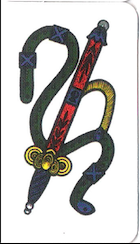
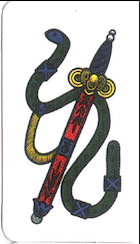
Update ace of spades and add another matching condition to check for values instead of just suits.

diff --git a/js/app.js b/js/app.js
@@ -196,8 +196,9 @@ function compareCardsAndSuits(selectedCard){
       // 09 - Cavallo - 3 points
       selectedCardData[selectedCardData.length -1] == "09" ? player.scoreTotal += 3 :
       // 08 - Re - 2 points
-      selectedCardData[selectedCardData.length -1] == "08" ? player.scoreTotal += 2 : null
+      selectedCardData[selectedCardData.length -1] == "08" ? player.scoreTotal += 2 : 
       // push these cards to the player's deck
+      0 && console.log("Points for you. None for the opponent.")
     } else {
       // else, no points given and the person who's turn it isn't, gets the point
       console.log("Award points to the opponent!")
@@ -206,7 +207,7 @@ function compareCardsAndSuits(selectedCard){
   }
   if(selectedCardData[0] === currentBriscolaCard[0] && selectedCardData[0] !== fieldCardData[0]){
     // create another if to check to see if the current card's number value is greater than the other
-      console.log("My card matches the briscola but not the field suit, Points for me!")
+      console.log("My card matches the briscola but not the field suit, points for me!")
       // listing cards from highest value to lowest in points:
       // 01 - ace - 11 points
       selectedCardData[selectedCardData.length -1] == "01" ? player.scoreTotal += 11 :
@@ -217,11 +218,19 @@ function compareCardsAndSuits(selectedCard){
       // 09 - Cavallo - 3 points
       selectedCardData[selectedCardData.length -1] == "09" ? player.scoreTotal += 3 :
       // 08 - Re - 2 points
-      selectedCardData[selectedCardData.length -1] == "08" ? player.scoreTotal += 2 : null
+      selectedCardData[selectedCardData.length -1] == "08" ? player.scoreTotal += 2 : 0
   }
   if(selectedCardData[0] !== currentBriscolaCard[0] && selectedCardData[0] !== fieldCardData[0]){
     // create another if to check to see if the current card's number value is greater than the other
-      console.log("My card matches the briscola but not the field suit, Points for me!")
+      console.log("My card suit doesn't match the Briscola suit or the field card suit, no points for me. Computer's turn!")
+  }
+  if(selectedCardData[0] == currentBriscolaCard[0] && selectedCardData[0] == fieldCardData[0] && parseInt(selectedCardData[selectedCardData.length - 1]) > parseInt(fieldCardData[fieldCardData.length - 1])){
+    // create another if to check to see if the current card's number value is greater than the other
+      console.log("My card suit matches the briscola and the field suit, but my card's value is higher than the field's. Points for me, my turn still. ")
+  }
+  if(selectedCardData[0] !== currentBriscolaCard[0] && selectedCardData[0] == fieldCardData[0] && parseInt(selectedCardData[selectedCardData.length - 1]) > parseInt(fieldCardData[fieldCardData.length - 1])){
+    // create another if to check to see if the current card's number value is greater than the other
+      console.log("My card suit matches the doesn't match thebriscola, but matches the field suit and my card's value is higher than the field's. Points for me, my turn still. ")
   }
   
   //
